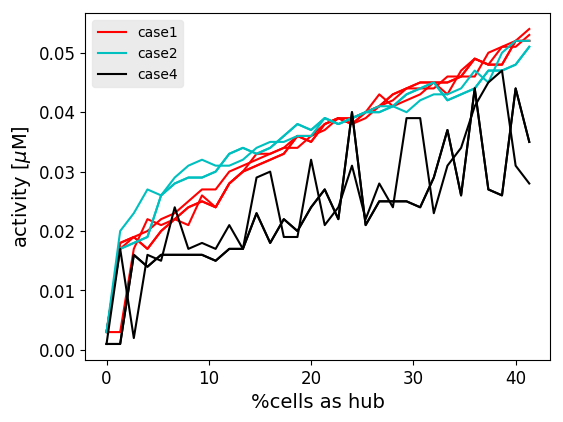
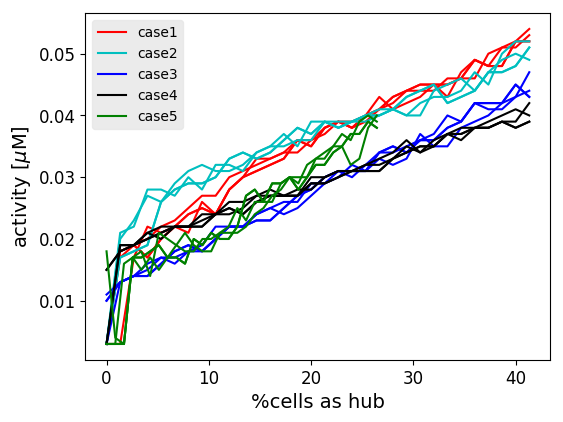
extra plots

diff --git a/figures/plot-inhibition/figure3.py b/figures/plot-inhibition/figure3.py
@@ -6,7 +6,7 @@ import sys
 try:
     CASE = int(sys.argv[1])
 except Exception:
-    CASE = 6
+    CASE = 1
     #raise Exception("Enter case idx to plot as arg")
 SUBCASE = ['hub','follower']
 colour = ['r','k']

diff --git a/figures/plot-activation/figure2.py b/figures/plot-activation/figure2.py
@@ -3,8 +3,8 @@ import matplotlib.pyplot as plt
 import glob
 import sys
 
-CASE = [1,2,4]
-colour = ['r','c','k']
+CASE = [1,2,3,4,5]
+colour = ['r','c','b','k','g']
 
 ## figure setup
 params = {
